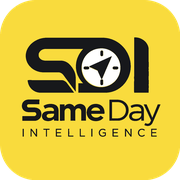
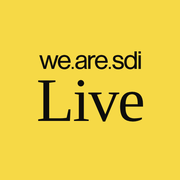
Renamed SDI Live
8 Nov 2026 (James): "change from SameDay to Live... SDI Live.. re brand".

Wherever people see it, the tool is now SDI Live:
- The page title, the phone app's name and its home-screen title.
- The menu now reads "we.are.sdi · LIVE", with the yellow dot breathing
  like an on-air light.
- The AI budget messages, the WhatsApp footer, errors, the studio
  review page, Craft Memory's name for it, and the sign-in page.
- New icons: the we.are.sdi wordmark over "Live" in the serif, on SDI
  yellow. The icons are now ?v=5 and the service worker cache is
  renamed, so phones fetch them.
- The user guide uses the new name throughout. The README, USING_AND_
  TESTING, ARCHITECTURE and the deploy guide say what changed and what
  didn't.

SameDay stays the internal name: the SDISameDay service,
C:\SDI_Automation, this repository, the /sameday/ address the phone app
and App Proxy use, and K:'s "SDI Same Day Intelligence" folder where
Muhammad's picture index lands. Renaming those would break installs and
the index copy for no one's benefit. All 128 tests pass.

Claude-Session: https://claude.ai/code/session_014QeNjrUMC39BfrFPB9PWYr

diff --git a/SDI_Automation/brief_lite/lite_page.html b/SDI_Automation/brief_lite/lite_page.html
@@ -1,10 +1,10 @@
 <!doctype html>
 <html lang="en-GB" data-theme="light"><head><meta charset="utf-8"><meta name="viewport" content="width=device-width,initial-scale=1,viewport-fit=cover">
 <link rel="manifest" href="/pwa/manifest.webmanifest"><meta name="theme-color" content="#E1E1D5"><meta name="color-scheme" content="light">
-<link rel="apple-touch-icon" href="/pwa/icon-180.png?v=4"><link rel="icon" type="image/png" href="/pwa/mark.png?v=4"><meta name="apple-mobile-web-app-capable" content="yes">
+<link rel="apple-touch-icon" href="/pwa/icon-180.png?v=5"><link rel="icon" type="image/png" href="/pwa/mark.png?v=5"><meta name="apple-mobile-web-app-capable" content="yes">
 <meta name="mobile-web-app-capable" content="yes"><meta name="apple-mobile-web-app-status-bar-style" content="default">
-<meta name="apple-mobile-web-app-title" content="SDI Same Day Intelligence">
-<title>SDI Same Day Intelligence</title>
+<meta name="apple-mobile-web-app-title" content="SDI Live">
+<title>SDI Live</title>
 <link rel="preconnect" href="https://fonts.googleapis.com"><link rel="preconnect" href="https://fonts.gstatic.com" crossorigin>
 <link href="https://fonts.googleapis.com/css2?family=Figtree:wght@400;500;600;700;800&family=Fraunces:opsz,wght@9..144,300;9..144,400&display=swap" rel="stylesheet">
 <style>
@@ -856,6 +856,11 @@ button,input,textarea,select{font-family:inherit}
 .prodname{display:flex;align-items:center;gap:8px;font-size:10.5px;font-weight:600;letter-spacing:.22em;text-transform:uppercase;color:var(--ink)}
 .prodname em{font-style:normal;color:var(--muted)}
 .ydot{width:9px;height:9px;border-radius:50%;background:var(--y);box-shadow:0 0 0 1px rgba(14,14,12,.12);flex:none}
+/* 8 Nov 2026: renamed SDI Live - the dot beside "Live" breathes, like an on-air light */
+.prodname{font-size:11.5px;letter-spacing:.3em}
+.prodname .ydot{animation:ydot 2.6s ease-in-out infinite}
+@keyframes ydot{0%,100%{box-shadow:0 0 0 1px rgba(14,14,12,.12),0 0 0 0 rgba(246,217,70,.75)}50%{box-shadow:0 0 0 1px rgba(14,14,12,.12),0 0 0 7px rgba(246,217,70,0)}}
+@media (prefers-reduced-motion:reduce){.prodname .ydot{animation:none}}
 .newbtn{margin:6px 18px 18px;height:48px;border-radius:999px;background:var(--ink);color:#fff;font-weight:600;font-size:14.5px;
  justify-content:flex-start;gap:12px;padding:0 20px 0 8px;box-shadow:0 10px 24px -12px rgba(14,14,12,.6);transition:background .2s,transform .2s}
 .newbtn:hover{background:#25251F;transform:translateY(-1px)}
@@ -1038,7 +1043,7 @@ body:not(.branded) .vs-you.live p::after{background:var(--ink)}
 </style></head><body>
 <div class="app">
  <aside class="rail" id="rail">
-  <div class="brand"><svg class="sdiwm" role="img" aria-label="we.are.sdi" viewBox="0 0 950 169" fill="none" xmlns="http://www.w3.org/2000/svg"> <path d="M158.91 36.77L135.38 114.85C133.11 122.35 130.44 133.08 129.13 138.46C127.99 133.14 125.68 122.65 123.77 115.37L103.18 36.77H80.96L59.63 115.36C57.71 122.53 55.26 133.19 54.05 138.53C52.76 133.17 50.13 122.39 48.03 114.86L25.72 36.77H2.41L42.88 164.18H64.81L86.14 87.54C88.19 80.21 90.50 70.16 91.68 64.87C92.79 70.16 94.97 80.21 97.02 87.54L118.11 164.18H139.79L181.49 36.77H158.91Z" fill="currentColor"/> <path d="M198.24 89.38C201.71 65.09 215.39 51.20 235.90 51.20C257.02 51.20 269.94 65.10 271.47 89.38H198.24ZM235.90 33.62C200.84 33.62 175.40 61.79 175.40 100.60C175.40 140.03 200.78 167.57 237.12 167.57C266.09 167.57 286.10 151.90 292.02 124.58L292.29 123.33H271.03L270.83 124.10C266.63 140.41 254.98 149.03 237.12 149.03C214.60 149.03 199.56 132.66 197.67 106.23H294.71V105.20C294.71 61.05 272.18 33.62 235.90 33.62Z" fill="currentColor"/> <path d="M423.09 99.34V116.84C423.09 129.47 413.09 149.51 386.25 149.51C374.76 149.51 361.06 146.03 361.06 129.45C361.06 111.98 374.55 109.01 395.10 106.47C405.22 105.35 416.17 102.54 423.09 99.34ZM442.87 145.21V75.14C442.87 48.07 427.17 34.35 396.20 34.35C365.32 34.35 345.88 50.57 344.19 77.74L344.13 78.84H365.11L365.18 77.89C366.61 59.68 376.54 51.20 396.44 51.20C413.72 51.20 422.85 58.47 422.85 72.23C422.85 84.77 413.6 87.91 394.16 89.87C365.81 92.71 338.12 98.13 338.12 129.93C338.12 152.21 355.49 166.60 382.36 166.60C399.06 166.60 412.19 160.66 422.44 148.45C422.81 156.82 424.03 161.37 426.55 163.88L426.85 164.18H447.48V161.87L447.02 161.56C445.35 160.45 442.87 154.48 442.87 145.21Z" fill="currentColor"/> <path d="M544.01 89.38C547.48 65.09 561.16 51.20 581.67 51.20C602.79 51.20 615.71 65.10 617.24 89.38H544.01ZM581.67 33.62C546.61 33.62 521.17 61.79 521.17 100.60C521.17 140.03 546.55 167.57 582.89 167.57C611.86 167.57 631.87 151.90 637.79 124.58L638.05 123.33H616.80L616.60 124.10C612.40 140.41 600.74 149.03 582.89 149.03C560.37 149.03 545.33 132.66 543.44 106.23H640.48V105.20C640.48 61.05 617.95 33.62 581.67 33.62Z" fill="currentColor"/> <path d="M851.70 149.27C829.69 149.27 816.56 131.25 816.56 101.08C816.56 71.21 829.93 52.65 851.46 52.65C875.53 52.65 890.48 71.21 890.48 101.08C890.48 143.01 866.18 149.27 851.70 149.27ZM889.27 52.95C880.17 40.79 866.17 33.86 850.48 33.86C816.91 33.86 794.35 60.78 794.35 100.84C794.35 141.52 816.57 167.82 850.97 167.82C867.23 167.82 879.13 162.36 889.27 150.19V164.18H910.99V0.13H889.27V52.95Z" fill="currentColor"/> <path d="M927.14 164.18H948.86V36.77H927.14V164.18Z" fill="currentColor"/> <path d="M927.14 21.26H948.86V0.13H927.14V21.26Z" fill="currentColor"/> <path d="M743.39 88.19C721.16 83.70 710.47 80.99 710.47 68.59C710.47 57.85 719.30 51.68 734.69 51.68C752.84 51.68 761.39 58.52 763.28 74.53L763.39 75.44H785.61L785.47 74.29C782.35 48.00 764.95 34.11 735.17 34.11C706.25 34.11 688.99 47.36 688.99 69.56C688.99 98.35 713.23 103.33 736.66 108.15C761.03 113.28 768.61 116.91 768.61 129.69C768.61 142.31 758.63 149.27 740.51 149.27C719.61 149.27 708.61 141.22 705.88 123.95L705.74 123.08H683.49L683.60 124.21C686.30 152.33 706.34 167.81 740.03 167.81C771.68 167.81 790.58 153.20 790.58 128.72C790.58 97.71 765.51 92.65 743.39 88.19Z" fill="currentColor"/> <path d="M525.69 57.69V37.10L525.04 36.85C522.56 35.85 520.48 35.32 516.64 35.32C502.33 35.32 488.73 42.98 479.81 55.94V36.77H458.08V164.18H479.81V93.57C479.81 69.25 497.61 56.53 515.19 56.53C519.06 56.53 520.87 56.78 523.60 57.69H525.69Z" fill="currentColor"/> <path d="M304.43 145.84H322.87V164.15H304.43V145.84Z" fill="currentColor"/> <path d="M650.64 145.69H669.08V164.00H650.64V145.69Z" fill="currentColor"/> </svg><div class="prodname"><i class="ydot"></i>Same Day <em>Intelligence</em></div></div>
+  <div class="brand"><svg class="sdiwm" role="img" aria-label="we.are.sdi" viewBox="0 0 950 169" fill="none" xmlns="http://www.w3.org/2000/svg"> <path d="M158.91 36.77L135.38 114.85C133.11 122.35 130.44 133.08 129.13 138.46C127.99 133.14 125.68 122.65 123.77 115.37L103.18 36.77H80.96L59.63 115.36C57.71 122.53 55.26 133.19 54.05 138.53C52.76 133.17 50.13 122.39 48.03 114.86L25.72 36.77H2.41L42.88 164.18H64.81L86.14 87.54C88.19 80.21 90.50 70.16 91.68 64.87C92.79 70.16 94.97 80.21 97.02 87.54L118.11 164.18H139.79L181.49 36.77H158.91Z" fill="currentColor"/> <path d="M198.24 89.38C201.71 65.09 215.39 51.20 235.90 51.20C257.02 51.20 269.94 65.10 271.47 89.38H198.24ZM235.90 33.62C200.84 33.62 175.40 61.79 175.40 100.60C175.40 140.03 200.78 167.57 237.12 167.57C266.09 167.57 286.10 151.90 292.02 124.58L292.29 123.33H271.03L270.83 124.10C266.63 140.41 254.98 149.03 237.12 149.03C214.60 149.03 199.56 132.66 197.67 106.23H294.71V105.20C294.71 61.05 272.18 33.62 235.90 33.62Z" fill="currentColor"/> <path d="M423.09 99.34V116.84C423.09 129.47 413.09 149.51 386.25 149.51C374.76 149.51 361.06 146.03 361.06 129.45C361.06 111.98 374.55 109.01 395.10 106.47C405.22 105.35 416.17 102.54 423.09 99.34ZM442.87 145.21V75.14C442.87 48.07 427.17 34.35 396.20 34.35C365.32 34.35 345.88 50.57 344.19 77.74L344.13 78.84H365.11L365.18 77.89C366.61 59.68 376.54 51.20 396.44 51.20C413.72 51.20 422.85 58.47 422.85 72.23C422.85 84.77 413.6 87.91 394.16 89.87C365.81 92.71 338.12 98.13 338.12 129.93C338.12 152.21 355.49 166.60 382.36 166.60C399.06 166.60 412.19 160.66 422.44 148.45C422.81 156.82 424.03 161.37 426.55 163.88L426.85 164.18H447.48V161.87L447.02 161.56C445.35 160.45 442.87 154.48 442.87 145.21Z" fill="currentColor"/> <path d="M544.01 89.38C547.48 65.09 561.16 51.20 581.67 51.20C602.79 51.20 615.71 65.10 617.24 89.38H544.01ZM581.67 33.62C546.61 33.62 521.17 61.79 521.17 100.60C521.17 140.03 546.55 167.57 582.89 167.57C611.86 167.57 631.87 151.90 637.79 124.58L638.05 123.33H616.80L616.60 124.10C612.40 140.41 600.74 149.03 582.89 149.03C560.37 149.03 545.33 132.66 543.44 106.23H640.48V105.20C640.48 61.05 617.95 33.62 581.67 33.62Z" fill="currentColor"/> <path d="M851.70 149.27C829.69 149.27 816.56 131.25 816.56 101.08C816.56 71.21 829.93 52.65 851.46 52.65C875.53 52.65 890.48 71.21 890.48 101.08C890.48 143.01 866.18 149.27 851.70 149.27ZM889.27 52.95C880.17 40.79 866.17 33.86 850.48 33.86C816.91 33.86 794.35 60.78 794.35 100.84C794.35 141.52 816.57 167.82 850.97 167.82C867.23 167.82 879.13 162.36 889.27 150.19V164.18H910.99V0.13H889.27V52.95Z" fill="currentColor"/> <path d="M927.14 164.18H948.86V36.77H927.14V164.18Z" fill="currentColor"/> <path d="M927.14 21.26H948.86V0.13H927.14V21.26Z" fill="currentColor"/> <path d="M743.39 88.19C721.16 83.70 710.47 80.99 710.47 68.59C710.47 57.85 719.30 51.68 734.69 51.68C752.84 51.68 761.39 58.52 763.28 74.53L763.39 75.44H785.61L785.47 74.29C782.35 48.00 764.95 34.11 735.17 34.11C706.25 34.11 688.99 47.36 688.99 69.56C688.99 98.35 713.23 103.33 736.66 108.15C761.03 113.28 768.61 116.91 768.61 129.69C768.61 142.31 758.63 149.27 740.51 149.27C719.61 149.27 708.61 141.22 705.88 123.95L705.74 123.08H683.49L683.60 124.21C686.30 152.33 706.34 167.81 740.03 167.81C771.68 167.81 790.58 153.20 790.58 128.72C790.58 97.71 765.51 92.65 743.39 88.19Z" fill="currentColor"/> <path d="M525.69 57.69V37.10L525.04 36.85C522.56 35.85 520.48 35.32 516.64 35.32C502.33 35.32 488.73 42.98 479.81 55.94V36.77H458.08V164.18H479.81V93.57C479.81 69.25 497.61 56.53 515.19 56.53C519.06 56.53 520.87 56.78 523.60 57.69H525.69Z" fill="currentColor"/> <path d="M304.43 145.84H322.87V164.15H304.43V145.84Z" fill="currentColor"/> <path d="M650.64 145.69H669.08V164.00H650.64V145.69Z" fill="currentColor"/> </svg><div class="prodname"><i class="ydot"></i>Live</div></div>
   <button class="newbtn" id="newb"><span class="nplus" aria-hidden="true">+</span>New chat</button>
   <button id="install">📲 Install the app</button>
   <nav class="snav" id="snav">
@@ -1058,7 +1063,7 @@ body:not(.branded) .vs-you.live p::after{background:var(--ink)}
   </div>
  </aside>
  <section class="main">
-  <div class="wm" aria-hidden="true"><img src="/pwa/mark.png?v=4" alt=""></div>
+  <div class="wm" aria-hidden="true"><img src="/pwa/mark.png?v=5" alt=""></div>
   <div class="steps" id="steps"><button class="menu" id="menu" aria-label="Menu">☰</button></div>
   <div id="log"></div>
   <div id="spv"></div>
@@ -1748,7 +1753,7 @@ function hero(){const d=document.createElement("div");d.className="hero";
  // 7 Nov 2026 (James: "much more in keeping with the SDI branding"): the we.are.sdi look - an eyebrow over a thin line,
  // a light serif statement, numbered cards with a round arrow, and the site's yellow halftone circle behind it all
  const art=`<div class="hero-art" aria-hidden="true"><i class="ha-circle"></i><i class="ha-dots"></i><i class="ha-arc"></i></div>`;
- if(!project){d.innerHTML=`${art}<div class="eyebrow">Same Day Intelligence</div><h1>Who's briefing?</h1><p>Pick your name. Your briefs stay in your own space - like projects in ChatGPT - and you can come back to any of them later. No password.</p>
+ if(!project){d.innerHTML=`${art}<div class="eyebrow">SDI Live</div><h1>Who's briefing?</h1><p>Pick your name. Your briefs stay in your own space - like projects in ChatGPT - and you can come back to any of them later. No password.</p>
   <div class="people">${projects.map(p=>`<button class="pp" data-p="${p.id}"><span class="pav" style="background:${pcolor(p.name)}">${initials(p.name)}</span><b>${esc(p.name)}</b><small>${p.chats.length} brief${p.chats.length===1?"":"s"}</small></button>`).join("")}
   <button class="pp add" id="ppadd"><span class="pav">＋</span><b>Someone else</b><small>add your name</small></button></div>`;
   log.appendChild(d);d.querySelectorAll(".pp[data-p]").forEach(b=>b.onclick=()=>newChat(b.dataset.p));d.querySelector("#ppadd").onclick=addProject;return}

diff --git a/USER_GUIDE.html b/USER_GUIDE.html
@@ -1,6 +1,6 @@
 <!doctype html>
 <html lang="en"><head><meta charset="utf-8"><meta name="viewport" content="width=device-width,initial-scale=1">
-<title>SDI Same Day - User Guide</title>
+<title>SDI Live - User Guide</title>
 <style>
 :root{--red:#C8102E;--ink:#17181B;--muted:#6E6A64;--paper:#F5F3EF;--card:#fff;--line:#E4E0D9;--green:#1F8A4C}
 @media (prefers-color-scheme:dark){:root{--ink:#F2F1EE;--muted:#9C978F;--paper:#111214;--card:#1A1B1E;--line:#2C2D31}}
@@ -16,13 +16,13 @@ th,td{text-align:left;padding:10px 12px;border-bottom:1px solid var(--line);vert
 .tip{border-left:4px solid var(--green)}.warn{border-left:4px solid var(--red)}
 code,kbd{background:color-mix(in srgb,var(--ink) 8%,transparent);padding:1px 6px;border-radius:6px;font-size:.92em}
 </style></head><body><main>
-<h1>SDI Same Day</h1>
-<p class="sub">A simple guide for account managers and designers. Talk or type the client's brief. Same Day asks what's missing, draws the concept, makes the client pack, and makes the SDI brief PDF.</p>
+<h1>SDI Live</h1>
+<p class="sub">A simple guide for account managers and designers. Talk or type the client's brief. SDI Live asks what's missing, draws the concept, makes the client pack, and makes the SDI brief PDF.</p>
 
 <h2>Start</h2>
 <div class="card">
 <ol>
-<li>Open SDI Same Day and pick your name: Andy, James or Muhammad. Your chats are saved under your name.</li>
+<li>Open SDI Live and pick your name: Andy, James or Muhammad. Your chats are saved under your name.</li>
 <li>Click <b>+ New chat</b>.</li>
 <li>Choose how you want to brief:
 <ul>
@@ -43,12 +43,12 @@ code,kbd{background:color-mix(in srgb,var(--ink) 8%,transparent);padding:1px 6px
 <li><b>Internal pack:</b> the full SDI brief PDF for the studio.</li>
 </ul></li>
 <li><b>A few quick render questions:</b> what the unit is, its size, the products, and the colours. That's all. If you don't know an answer, say "you choose" or "just assume". Anything else is assumed, marked "(assumed)", and you change it on the picture.</li>
-<li><b>"Is there a past SDI job or file I should follow, or shall I make something new?"</b> Name it any way you like: a job number, a name, a fixture, a file name, or "the latest bunker we did". Same Day finds it on W: and <b>always checks first</b>: <i>"Do you mean 12148 - Rollershutter Forecourt Bunker?"</i> Say yes, or no to see the other matches. The render and GA then follow that job closely. Say <i>"show me what we've done"</i> to see past work on screen.</li>
+<li><b>"Is there a past SDI job or file I should follow, or shall I make something new?"</b> Name it any way you like: a job number, a name, a fixture, a file name, or "the latest bunker we did". SDI Live finds it on W: and <b>always checks first</b>: <i>"Do you mean 12148 - Rollershutter Forecourt Bunker?"</i> Say yes, or no to see the other matches. The render and GA then follow that job closely. Say <i>"show me what we've done"</i> to see past work on screen.</li>
 <li><b>The render is drawn</b> (about 40–60 seconds). The mic pauses while it works and opens again when the picture is on screen. To cancel, press <b>■ Stop</b> on the stage or say "stop".</li>
 <li><b>"Do you like it, or any changes?"</b>
 <ul>
 <li>To change it, say what to change, for example <i>"make the header bigger and the shelves white"</i>. You get a new option (B, C…).</li>
-<li>To keep it, say <i>"I like it"</i> or <i>"finalise"</i>. Same Day makes the GA and the client sheet: <b>Client pack ready</b>.</li>
+<li>To keep it, say <i>"I like it"</i> or <i>"finalise"</i>. SDI Live makes the GA and the client sheet: <b>Client pack ready</b>.</li>
 </ul></li>
 <li><b>"Now let's start the internal brief."</b> Answer the internal questions: project name, account manager, deadline, budget and so on.</li>
 <li><b>"Anything else to add?"</b> Then the <b>brief PDF</b> is made. Everything is saved in the chat, under <b>Sheets &amp; PDFs</b>.</li>
@@ -78,7 +78,7 @@ code,kbd{background:color-mix(in srgb,var(--ink) 8%,transparent);padding:1px 6px
 <div class="card tip">
 <ul>
 <li><b>Short answers are fine:</b> "yes", "no", "both", "six". Say them clearly at normal volume.</li>
-<li><b>Say numbers you're sure of.</b> Same Day never invents sizes. If it didn't catch a number, it asks again.</li>
+<li><b>Say numbers you're sure of.</b> SDI Live never invents sizes. If it didn't catch a number, it asks again.</li>
 <li><b>Wait for the question to finish</b> before you answer. Talking over it can cut the question off.</li>
 <li><b>Name the brand.</b> Product brands like No7, Elvive or Lindor go on the header.</li>
 <li><b>Upload the real logo or products</b> if you have them. The render uses them first.</li>

diff --git a/SDI_Automation/brief_lite/review_page.html b/SDI_Automation/brief_lite/review_page.html
@@ -1,5 +1,5 @@
 <!doctype html><html lang="en-GB"><head><meta charset="utf-8"><meta name="viewport" content="width=device-width,initial-scale=1,viewport-fit=cover">
-<title>Studio review - SDI Same Day Intelligence</title><link rel="icon" href="/pwa/mark.png?v=4">
+<title>Studio review - SDI Live</title><link rel="icon" href="/pwa/mark.png?v=5">
 <style>
 :root{--ink:#17181B;--ink2:#3B3D42;--muted:#6E6A64;--paper:#F5F3EF;--card:#fff;--line:#E7E2DA;--soft:#FAF8F5;--red:#C8102E;--green:#1E8E5A;--amber:#B26A00}
 @media (prefers-color-scheme:dark){:root{--ink:#F2F1EE;--ink2:#CFCCC6;--muted:#9C978F;--paper:#111214;--card:#1A1B1E;--line:#2C2D31;--soft:#202125}}
@@ -29,7 +29,7 @@ textarea{min-height:80px;resize:vertical}
 .send{width:100%;height:52px;border:0;border-radius:14px;background:var(--red);color:#fff;font-weight:800;font-size:16px;margin-top:6px}
 .done{text-align:center;padding:40px 16px}.done b{display:block;font-size:22px;margin:10px 0 4px}
 </style></head><body><div class="wrap" id="app">
-<header><img src="/pwa/mark.png?v=4" alt=""><div><b>Studio review</b><small id="sub">SDI Same Day Intelligence · wearesdi</small></div></header>
+<header><img src="/pwa/mark.png?v=5" alt=""><div><b>Studio review</b><small id="sub">SDI Live · wearesdi</small></div></header>
 <div class="card"><h2>The brief</h2><div class="brief" id="brief"></div></div>
 <div class="card"><h2>The concept - tap the picture to pin a comment</h2><div class="tabs" id="tabs"></div>
  <div class="stage" id="stage"><img id="img" alt="Concept"></div><p class="hint">Tap any spot to add a note there - "this joint", "too thin", "won't fit the bottles".</p><ol class="pins" id="pins"></ol></div>
@@ -72,7 +72,7 @@ $("#send").onclick=async()=>{const who=$("#who").value.trim();if(!who){alert("Ad
  try{localStorage.setItem("srWho",who)}catch(e){}
  const v=D.visuals[cur];const r=await fetch(`/api/review/${T}`,{method:"POST",headers:{"Content-Type":"application/json"},
   body:JSON.stringify({who,verdict,chips:[...chips],text:$("#txt").value.trim(),label:v.label,kind:v.kind,pins:pins.map(p=>({on:D.visuals[p.v].name,x:+p.x.toFixed(3),y:+p.y.toFixed(3),note:p.note}))})}).then(r=>r.json()).catch(()=>({}));
- $("#app").innerHTML=r.ok?`<div class="done"><img src="/pwa/mark.png?v=4" width="64" alt=""><b>Thanks, ${esc(who)} ✓</b>${esc(D.asked_by||"The AM")} will see this in the chat, and the studio's Craft Memory learns from it - with your name on it.</div>`:
+ $("#app").innerHTML=r.ok?`<div class="done"><img src="/pwa/mark.png?v=5" width="64" alt=""><b>Thanks, ${esc(who)} ✓</b>${esc(D.asked_by||"The AM")} will see this in the chat, and the studio's Craft Memory learns from it - with your name on it.</div>`:
   `<div class="done"><b>That didn't send</b>Please try again.</div>`};
 load();
 </script></body></html>

diff --git a/DEPLOY_GUIDE.html b/DEPLOY_GUIDE.html
@@ -1,6 +1,6 @@
 <!doctype html>
 <html lang="en"><head><meta charset="utf-8"><meta name="viewport" content="width=device-width,initial-scale=1">
-<title>Same Day Deploy Guide</title>
+<title>SDI Live Deploy Guide</title>
 <style>
 :root{--bg:#f5f3ee;--card:#fff;--ink:#1d1d1b;--mute:#6b6a65;--line:#e6e2d8;--y:#F9DB3D;--code:#f3f1ea}
 @media (prefers-color-scheme:dark){:root{--bg:#141414;--card:#1e1e1e;--ink:#f1f0ec;--mute:#a7a59e;--line:#333;--code:#262626}}
@@ -12,7 +12,7 @@ code,pre{font-family:Consolas,monospace;font-size:13.5px;background:var(--code);
 pre{padding:10px 12px;overflow:auto}table{width:100%;border-collapse:collapse}td,th{padding:7px 8px;border-top:1px solid var(--line);text-align:left;vertical-align:top}
 th{font-size:13px;color:var(--mute)}.warn{border-left:4px solid #e5484d}.ok{border-left:4px solid #2f8a4f}
 </style></head><body><div class="wrap">
-<h1>SDI Same Day Intelligence: deploy guide</h1>
+<h1>SDI Live (SameDay): deploy guide</h1>
 <p class="sub">For James. Andy's briefing tool: an account manager talks or types a brief and gets SDI's past work, concept renders, a GA and the brief pack. Updated 2 November 2026.</p>
 
 <div class="card ok"><b>In short:</b> copy <code>SDI_Automation\</code> from this folder to <code>C:\SDI_Automation\</code> on the server, create the Python environment (the keys file <code>.env</code> comes with the folder, nothing to fill in), then start <code>brief_lite\lite_app.py</code> (port 5020) and <code>craft\craft_site.py</code> (port 5030).</div>

diff --git a/SDI_Automation/craft/craft_page.html b/SDI_Automation/craft/craft_page.html
@@ -69,7 +69,7 @@ async function load(){const d=await fetch("api/craft/summary").then(r=>r.json())
  $("#kpis").innerHTML=[[d.decisions,"decisions captured"],[wp+"%","with a reason"],[d.rules.length,"studio rules so far"],[pct===null?"–":pct+"%","picks predicted right"+(acc.scored?` (${acc.scored})`:"")]]
   .map(([b,s])=>`<div class="k"><b>${b}</b><span>${s}</span></div>`).join("");
  $("#rules").innerHTML=d.rules.length?d.rules.map(r=>`<div class="rule"><span class="n">${r.n}×</span><div><b>${esc(r.rule)}</b><small>${esc(r.where||"all briefs")}${r.who.length?" · from "+esc(r.who.join(", ")):""}</small></div></div>`).join(""):
-  `<p class="empty">No rules yet. They appear as people pick options and say why - in SDI Same Day Intelligence, a tap under the chosen option; in a live call, just saying it.</p>`;
+  `<p class="empty">No rules yet. They appear as people pick options and say why - in SDI Live, a tap under the chosen option; in a live call, just saying it.</p>`;
  $("#recent").innerHTML=d.recent.length?d.recent.map(e=>{const k=KIND[e.kind]||["•",e.kind];const c=e.context||{};
   return `<div class="ev"><span class="ic">${k[0]}</span><div><b>${esc(e.who||"Someone")}</b> ${k[1]}${e.summary?`: ${esc(String(e.summary).slice(0,120))}`:""}
   <small> · ${esc([c.client,c.category,c.unit].filter(Boolean).join(" · "))} · ${esc(e.tool)} · ${ago(e.at)} ago</small>

diff --git a/SDI_Automation/brief_lite/pwa/sw.js b/SDI_Automation/brief_lite/pwa/sw.js
@@ -1,5 +1,5 @@
 // SDI Brief Lite - installable app shell. Live data is never cached.
-const SHELL = "sdi-sameday-v4";
+const SHELL = "sdi-live-v5";   // 8 Nov 2026: renamed SDI Live, new icons
 self.addEventListener("install", e => { e.waitUntil(caches.open(SHELL).then(c => c.addAll(["/pwa/icon-192.png", "/pwa/icon-512.png"]))); self.skipWaiting(); });
 self.addEventListener("activate", e => { e.waitUntil(caches.keys().then(ks => Promise.all(ks.filter(k => k !== SHELL).map(k => caches.delete(k))))); self.clients.claim(); });
 self.addEventListener("fetch", e => {

diff --git a/SDI_Automation/brief_lite/lite_app.py b/SDI_Automation/brief_lite/lite_app.py
@@ -213,7 +213,7 @@ def budget_gate(kind):
     """The one hard limit (Muhammad, 13 Oct 2026: 'whatever happens, no credits past the limit'). Every paid call - Claude,
     OpenAI images, Grok, live voice - comes through here first, so a feature written later can't forget it."""
     if spent_today() + EST.get(kind, 0.05) > daily_cap():
-        raise BudgetStop("Today's SDI Same Day Intelligence AI budget is used up")
+        raise BudgetStop("Today's SDI Live AI budget is used up")
 
 
 def _guard_sdks():
@@ -484,7 +484,7 @@ def past_work_notes(s, text="", limit=4):
 def think(s, text):
     """One cheap Haiku call per message: what did they tell us, and what do we ask next."""
     if spent_today() >= daily_cap():
-        return {"updates": {}, "intent": "brief", "reply": "I've hit today's AI budget for SDI Same Day Intelligence - ask Muhammad to raise the cap and I'll carry on."}
+        return {"updates": {}, "intent": "brief", "reply": "I've hit today's AI budget for SDI Live - ask Muhammad to raise the cap and I'll carry on."}
     import anthropic
     missing_need = [k for k in NEED if not s["brief"].get(k)]
     missing_rest = [k for k in FIELDS if k not in NEED and not s["brief"].get(k)]
@@ -1201,7 +1201,7 @@ def make_visual(s, kind="render", change=None, base_image=None, refs=None, label
     quality = CHANGE_QUALITY if base_image else IMAGE_QUALITY   # first concept at the best quality; small changes cheaper
     cost = IMAGE_COST.get(quality, 0.063)
     if spent_today() + cost > daily_cap():
-        return None, "today's SDI Same Day Intelligence AI budget is used up"
+        return None, "today's SDI Live AI budget is used up"
     from openai import OpenAI
     files = []
     if base_image and os.path.exists(base_image):                 # a change: start from the last concept
@@ -1618,7 +1618,7 @@ def make_ga_ai(s, base_visual, retry_note=""):
         return None, "no OPENAI_API_KEY in .env"
     cost = IMAGE_COST["medium"]                      # medium: small text in the callouts stays crisp; ~7p
     if spent_today() + cost > daily_cap():
-        return None, "today's SDI Same Day Intelligence AI budget is used up"
+        return None, "today's SDI Live AI budget is used up"
     from openai import OpenAI
     try:
         # the AM's own GA drawing (an uploaded PDF, page 1) goes in too, so the GA follows SDI's real drawing style and parts
@@ -1691,7 +1691,7 @@ def make_ga_text(s):
         return None, "no OPENAI_API_KEY in .env"
     cost = IMAGE_COST["medium"]
     if spent_today() + cost > daily_cap():
-        return None, "today's SDI Same Day Intelligence AI budget is used up"
+        return None, "today's SDI Live AI budget is used up"
     what = "; ".join(f"{k.replace('_', ' ')}: {b[k]}" for k in ("unit_type", "placement", "materials", "colours_graphics",
                                                                "products_held", "lighting", "fixing", "other_notes") if b.get(k))
     prompt = ga_prompt(b, hwd).replace("of the display unit shown in this image - the SAME unit, with every feature it has",
@@ -2491,7 +2491,7 @@ def handle(number, name, text, image_path=None, voice=False, ch=None, new=False,
     if text and b.get("client") and convo.stage(s) == "pack" and re.fullmatch(r"\W*(boots?|booth|bose|bowth|bolts?|bullets?|bowl|bot|boat|both)\W*(please|pack|packs)?\W*", text, re.I):
         text = "both"
     if DANGER.search(text or ""):   # never even passed to the AI: Brief Lite only reads the drives
-        ch.text("I can't do that - SDI Same Day Intelligence only reads SDI's W: and K: drives to find past work, it can never delete, move "
+        ch.text("I can't do that - SDI Live only reads SDI's W: and K: drives to find past work, it can never delete, move "
                 "or change anything on them. Back to the brief whenever you're ready.")
         return ch, s
     m = re.fullmatch(r"lite:opt:(.+)", text)          # a tapped option is just their answer
@@ -2539,7 +2539,7 @@ def handle(number, name, text, image_path=None, voice=False, ch=None, new=False,
     if first:
         prefix = f"New brief started {date.today():%A %d %B}. "
         if ch.number:
-            t["reply"] = (t.get("reply") or "") + "\n\n_🎨 SDI Same Day Intelligence - type *menu* for SDI Debrief Intelligence (studio jobs), *stop* to close this brief._"
+            t["reply"] = (t.get("reply") or "") + "\n\n_🎨 SDI Live - type *menu* for SDI Debrief Intelligence (studio jobs), *stop* to close this brief._"
     # A different client than the open brief means a new brief - never carry Boots' unit over into a Lindt enquiry
     upd = t.get("updates") or {}
     # 28 Oct 2026: "SDI Displays" (a misheard pack answer) was saved as the client - then "Tesco" counted as a new client
@@ -3672,7 +3672,7 @@ def api_wa():
                 ch, _ = handle(number, js.get("name", ""), text, js.get("image_path"), js.get("voice", False), new=starting and not active)
                 ch.flush()
             except Exception as e:
-                Channel("err", number).text(f"Sorry - SDI Same Day Intelligence hit a problem ({str(e)[:120]}).")
+                Channel("err", number).text(f"Sorry - SDI Live hit a problem ({str(e)[:120]}).")
     threading.Thread(target=run, daemon=True).start()
     return jsonify({"taken": True})
 
@@ -3711,7 +3711,7 @@ def _start_turn(who, name, text, image_path=None, new=False, t_override=None, lo
                 print(f"turn {s['id']} {JOBS[jid].get('tool') or 'turn'}: took {took:.0f}s", flush=True)
         except Exception as e:
             JOBS[jid]["error"] = str(e)[:300]
-            ch.out.append({"type": "text", "text": "Today's AI budget for SDI Same Day Intelligence is used up, so I've stopped - nothing more will be "
+            ch.out.append({"type": "text", "text": "Today's AI budget for SDI Live is used up, so I've stopped - nothing more will be "
                            "spent today. Ask Muhammad to raise the limit if you need more." if isinstance(e, BudgetStop) else
                            f"Sorry - something went wrong ({str(e)[:150]})."})
         finally:
@@ -3741,7 +3741,7 @@ def api_rt_session():
     try:
         budget_gate("voice")
     except BudgetStop:
-        return jsonify({"error": "Today's SDI Same Day Intelligence AI budget is used up"}), 429
+        return jsonify({"error": "Today's SDI Live AI budget is used up"}), 429
     if not os.environ.get("OPENAI_API_KEY"):
         return jsonify({"error": "no OPENAI_API_KEY"}), 500
     project = _project_id(js.get("project"))
@@ -5175,13 +5175,13 @@ def access_gate():
 
 
 UNLOCK_PAGE = """<!doctype html><html lang="en-GB"><head><meta charset="utf-8"><meta name="viewport" content="width=device-width,initial-scale=1">
-<link rel="manifest" href="/pwa/manifest.webmanifest"><meta name="theme-color" content="#C8102E"><link rel="apple-touch-icon" href="/pwa/icon-180.png?v=4">
-<title>SDI Same Day Intelligence</title><style>body{margin:0;min-height:100vh;display:grid;place-items:center;background:#F5F3EF;font:16px/1.5 system-ui,sans-serif;color:#17181B}
+<link rel="manifest" href="/pwa/manifest.webmanifest"><meta name="theme-color" content="#E1E1D5"><link rel="apple-touch-icon" href="/pwa/icon-180.png?v=5">
+<title>SDI Live</title><style>body{margin:0;min-height:100vh;display:grid;place-items:center;background:#F5F3EF;font:16px/1.5 system-ui,sans-serif;color:#17181B}
 form{background:#fff;border-radius:20px;padding:28px 24px;width:min(360px,88vw);box-shadow:0 10px 40px rgba(0,0,0,.08);text-align:center}
 img{width:min(220px,60vw);height:auto;display:block;margin:0 auto 6px}h1{font-size:20px;margin:12px 0 4px}p{color:#6E6A64;margin:0 0 18px;font-size:14px}
 input{width:100%;box-sizing:border-box;height:48px;border:1.5px solid #E7E2DA;border-radius:12px;padding:0 14px;font-size:18px;text-align:center;letter-spacing:.2em}
 button{width:100%;height:48px;margin-top:12px;border:0;border-radius:12px;background:#C8102E;color:#fff;font-weight:700;font-size:16px}.m{color:#C8102E;font-size:13px;margin-top:10px}</style></head>
-<body><form method="post" action="/unlock"><img src="/pwa/lockup.png?v=4" alt="SDI Same Day Intelligence - wearesdi"><p>Enter the team access code</p>
+<body><form method="post" action="/unlock"><img src="/pwa/lockup.png?v=5" alt="SDI Live - wearesdi"><p>Enter the team access code</p>
 <input name="code" type="password" inputmode="text" autocomplete="current-password" autofocus><button>Open</button><div class="m">{msg}</div></form></body></html>"""
 
 
@@ -5211,7 +5211,7 @@ def page():
 def warm():
     import lite_search
     try:      # 4 Nov 2026: the job index first - past jobs no longer wait for (or fail with) the picture index
-        print(f"SDI Same Day Intelligence: past-work search ready - {lite_search._load()['n_jobs']} jobs", flush=True)
+        print(f"SDI Live: past-work search ready - {lite_search._load()['n_jobs']} jobs", flush=True)
     except Exception as e:
         print("! past-work search not ready:", e, flush=True)
     try:
@@ -5229,7 +5229,7 @@ spaces.bind(spent_today=spent_today, daily_cap=daily_cap, log_cost=log_cost,
             clip=lambda: __import__("lite_search").clip_model())
 sys.path.insert(0, os.path.join(BASE, "craft"))
 import craft, craft_web       # Craft Memory: the studio's know-how, captured as people work (Tracy, KTP, 14 Oct 2026)
-craft_web.add(app, "showroom", "SDI Same Day Intelligence", "/pwa/mark.png?v=4")
+craft_web.add(app, "showroom", "SDI Live", "/pwa/mark.png?v=5")
 CLIP = lambda: __import__("lite_search").clip_model()
 
 
@@ -5250,10 +5250,10 @@ if __name__ == "__main__":
     try:
         probe.bind(("0.0.0.0", PORT)); probe.close()
     except OSError:
-        print(f"Port {PORT} already in use - SDI Same Day Intelligence is already running.")
+        print(f"Port {PORT} already in use - SDI Live is already running.")
         sys.exit(0)
     map_drives()                  # before the past-work search loads: its paths are W:\..., S:\..., K:\...
     threading.Thread(target=warm, daemon=True).start()
     from waitress import serve
-    print(f"SDI Same Day Intelligence on http://localhost:{PORT}")
+    print(f"SDI Live on http://localhost:{PORT}")
     serve(app, host="0.0.0.0", port=PORT, threads=8)

diff --git a/SDI_Automation/brief_lite/convo_parts.py b/SDI_Automation/brief_lite/convo_parts.py
@@ -680,7 +680,7 @@ def converse(s, text, fast=False):
     it answers like a sharp colleague; fast=True (lines heard on a live call, read in the background) runs on Haiku 5.5."""
     b = s["brief"]
     if spent_today() >= daily_cap():
-        return {"updates": {}, "intent": "answer", "reply": "I've hit today's AI budget for SDI Same Day Intelligence - ask Muhammad to raise the cap and I'll carry on.", "ask_field": "", "ask": ""}
+        return {"updates": {}, "intent": "answer", "reply": "I've hit today's AI budget for SDI Live - ask Muhammad to raise the cap and I'll carry on.", "ask_field": "", "ask": ""}
     import anthropic
     st = stage(s)
     p = render_plan(b) if st == "render_q" else plan(b)
@@ -711,7 +711,7 @@ def converse(s, text, fast=False):
         "whole size. Only record size when you have all three; if you have one or two, ask for the missing one by name.\n"
         "- If the unit type names a material ('card counter unit', 'steel wall bay'), record that as materials too.\n"
         "- Renders NEVER wait for template questions. Never tell the AM a render needs a project name, their name, a contact, a "
-        "date or anything else first - if they ask for a render, SDI Same Day Intelligence makes it straight away and the questions carry on after.\n"
+        "date or anything else first - if they ask for a render, SDI Live makes it straight away and the questions carry on after.\n"
         "- The app makes the pictures, not you. NEVER say a render is being made, coming, nearly ready or on its way unless "
         "RENDER below says 'being made right now'. If they ask where it is and none is being made, use intent want_visuals.\n"
         "- PACK and STAGE below say where the brief is: the client pack (render, GA, client sheet) asks only what the picture "

diff --git a/SDI_Automation/craft/craft_site.py b/SDI_Automation/craft/craft_site.py
@@ -1,7 +1,7 @@
 """
 craft_site.py - SDI Craft: the studio's know-how, learnt from the tools, on its own site (port 5030).
 
-Muhammad, 14 Oct 2026: the feedback and learning shouldn't sit on the tools' own pages. Each tool (SDI Same Day Intelligence, SDI Debrief Intelligence,
+Muhammad, 14 Oct 2026: the feedback and learning shouldn't sit on the tools' own pages. Each tool (SDI Live, SDI Debrief Intelligence,
 SDI Recall) only CAPTURES - quietly, as people work - into craft\\craft.db. This site is where it's read: one tab per tool,
 plus what's come out of meetings, and the exports that later train the tools to be better.
 
@@ -22,7 +22,7 @@ import craft  # noqa: E402
 PORT = int(os.environ.get("CRAFT_PORT", "5030"))
 TOOLS = {   # id -> (name, mark, where the tool itself lives, what it's for)
     "all":      ("All tools", "/m/sdi.png", None, "everything the tools have learnt, together"),
-    "showroom": ("SDI Same Day Intelligence", "/m/showroom.png", "http://{host}:5020", "AMs: which concept is picked, what's changed, and why"),
+    "showroom": ("SDI Live", "/m/showroom.png", "http://{host}:5020", "AMs: which concept is picked, what's changed, and why"),
     "flow":     ("SDI Debrief Intelligence", "/m/flow.svg", "https://{host}:5443", "the studio: who's booked on what, what people ask, craft notes"),
     "library":  ("SDI Recall", "/m/sdi.png", "http://{host}:5000", "designers: what they search for, open and reuse - and what's missing"),
     "meeting":  ("Meetings", "/m/sdi.png", None, "insights from meeting notes - read by Claude, with who said them"),

diff --git a/tests/test_any_order_and_noise.py b/tests/test_any_order_and_noise.py
@@ -1253,7 +1253,7 @@ class RendersSideBySideTests(unittest.TestCase):
         self.assertIn('"make the render"', said)
         self.assertTrue(L.intent_wants_render({}, "make the render"))      # the words it suggests really do start one
         self.assertNotIn("Request timed out", said)
-        self.assertIn("budget", L.render_failed("today's SDI Same Day Intelligence AI budget is used up"))
+        self.assertIn("budget", L.render_failed("today's SDI Live AI budget is used up"))
 
     def test_the_job_index_is_safe_from_many_chats_at_once(self):
         import threading

diff --git a/SDI_Automation/brief_lite/pdf_pack.py b/SDI_Automation/brief_lite/pdf_pack.py
@@ -378,7 +378,7 @@ def val(brief, key):
 def _safe_output(out_dir, name):
     destination = Path(out_dir).resolve()
     if destination.drive.upper() != "C:" or str(destination).startswith("\\\\"):
-        raise ValueError("SDI Same Day Intelligence exports must be saved locally on C:.")
+        raise ValueError("SDI Live exports must be saved locally on C:.")
     destination.mkdir(parents=True, exist_ok=True)
     return str(destination / name)
 

diff --git a/SDI_Automation/craft/craft_web.py b/SDI_Automation/craft/craft_web.py
@@ -1,4 +1,4 @@
-"""The Craft Memory page and its API, added to a Flask app with one line: craft_web.add(app, "showroom", "SDI Same Day Intelligence", "/pwa/mark.png")."""
+"""The Craft Memory page and its API, added to a Flask app with one line: craft_web.add(app, "showroom", "SDI Live", "/pwa/mark.png")."""
 import csv, io, json, os
 
 from flask import Response, jsonify, request
